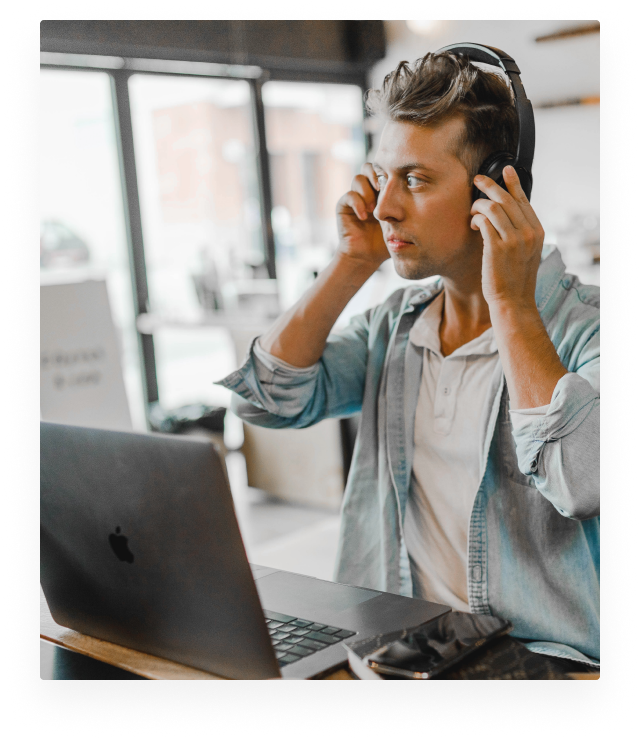
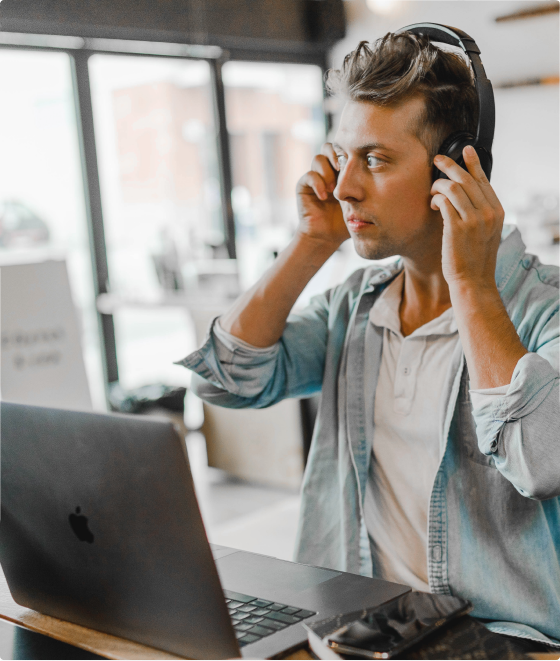
Hero section basic layout and styles finished

diff --git a/src/components/hero.tsx b/src/components/hero.tsx
@@ -1,0 +1,51 @@
+import Image from "next/image";
+import React from "react";
+import { Button } from ".";
+
+const Hero = () => {
+    return (
+        <section className='container-sm flex mx-auto items-center justify-between mt-8 mb-44'>
+            <article className='flex flex-col max-w-[500px]'>
+                <p className='font-bold text-sm text-primary pb-4'>WELCOME!</p>
+                <h1 className='font-semibold text-[62px] leading-[72px] pb-5'>
+                    The best way for your startup.
+                </h1>
+                <p className='text-lg font-normal pb-8'>
+                    You can create your own design process with master. They are
+                    blocks designed to carry on with the times with your
+                    customers. Modern, minimal blocks with a cool look.
+                </p>
+                <div className='flex gap-4'>
+                    <Button
+                        type='button'
+                        title='Get Started'
+                        classNames='w-[180px] h-[62px] border-[1.4px] bg-primary text-white font-semibold text-[17px] rounded-full'
+                    />
+                    <Button
+                        type='button'
+                        title='Learn More'
+                        classNames='w-[180px] h-[62px] border-[1.4px] border-stroke-gray rounded-full'
+                    />
+                </div>
+            </article>
+            <div className='flex-center relative w-[560px] h-[660px]'>
+                <Image
+                    src={"/static/assets/patterns/shape1.svg"}
+                    alt='shape pattern'
+                    width={86}
+                    height={102}
+                    className='rotate-90 absolute bottom-[150px] -left-12'
+                />
+                <Image
+                    src={"/static/assets/images/hero.png"}
+                    alt='a man with headphones on his head'
+                    fill
+                    className='relative z-10'
+                />
+                <div className=' absolute -top-12 -right-12 z-0 w-[560px] h-[660px] bg-dark-blue' />
+            </div>
+        </section>
+    );
+};
+
+export default Hero;

diff --git a/src/app/page.tsx b/src/app/page.tsx
@@ -1,16 +1,10 @@
-import { Button } from "@/components";
+import { Button, Hero } from "@/components";
 import Image from "next/image";
 
 export default function Home() {
     return (
         <main>
-            <section className='padding-x border-2 border-blue-500 w-full h-16'>
-                Lorem ipsum dolor sit amet consectetur adipisicing elit.
-                Dignissimos dicta consequuntur recusandae sint tempora veniam
-                provident quasi facere libero temporibus voluptatem quibusdam,
-                molestias voluptatibus asperiores distinctio iure est
-                praesentium harum.
-            </section>
+            <Hero />
             <Button classNames='' title='Get Started' type='button' />
         </main>
     );

diff --git a/src/components/navbar.tsx b/src/components/navbar.tsx
@@ -13,7 +13,7 @@ const Navbar = () => {
     const pathname = usePathname();
     console.log(pathname);
     return (
-        <nav className='padding-x w-full flex items-center justify-between h-[132px] text-thin max-w-[1440px] mx-auto'>
+        <nav className='relative bg-white z-10 padding-x w-full flex items-center justify-between h-[132px] text-thin max-w-[1440px] mx-auto'>
             <Image
                 src={"/static/assets/icons/logo.svg"}
                 className=''

diff --git a/tailwind.config.ts b/tailwind.config.ts
@@ -11,7 +11,7 @@ const config: Config = {
             xs: ["12px", "16px"],
             sm: ["14px", "20px"],
             base: ["16px", "19.5px"],
-            lg: ["18px", "21.94px"],
+            lg: ["18px", "32px"],
             xl: ["20px", "24.38px"],
             "2xl": ["24px", "29.26px"],
             "3xl": ["28px", "50px"],

diff --git a/src/components/index.ts b/src/components/index.ts
@@ -2,3 +2,4 @@ export { default as Navbar } from "./navbar";
 export { default as Button } from "./button";
 export { default as BurgerMenu } from "./burger-menu";
 export { default as Footer } from "./footer";
+export { default as Hero } from "./hero";
